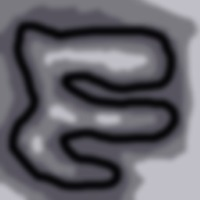
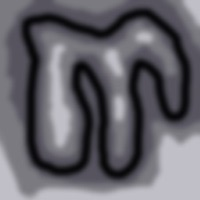
Nodes

diff --git a/CS_Application_Mermans_Stefan/RemoteHealthCareCS/VRConnectorForm/Forms/TunnelCommandForm.cs b/CS_Application_Mermans_Stefan/RemoteHealthCareCS/VRConnectorForm/Forms/TunnelCommandForm.cs
@@ -116,40 +116,46 @@ namespace VRConnectorForm.Forms
                     nodes = new[]
                     {
                         //grid is 200x200
-                        new {pos = new[] {-77,0, -74} , dir = new[] {5, 0, -5 }},
-                        new {pos = new[] {-66,0,-74} , dir = new[] {5,0,5}},
-                        new {pos = new[] {-41,0,-65}, dir = new[] {-5,0,5}},
-                        new {pos = new[] {-9,0,-69}, dir = new[] {-5,0,-5}},
-                        new {pos = new[] {44,0,-69}, dir = new[] {-5,0,-5}},
-                        new {pos = new[] {64,0,-59}, dir = new[] {-5,0,-5}},
-                        new {pos = new[] {67,0,-50}, dir = new[] {-5,0,-5}},
-                        new {pos = new[] {69,0,-26}, dir = new[] {-5,0,-5}},
-                        new {pos = new[] {59,0,-13}, dir = new[] {-5,0,-5}},
-                        new {pos = new[] {34,0,-13}, dir = new[] {-5,0,-5}},
-                        new {pos = new[] {14,0,-13}, dir = new[] {-5,0,-5}},
-                        new {pos = new[] {-13,0,-21}, dir = new[] {-5,0,-5}},
-                        new {pos = new[] {-35,0,-19}, dir = new[] {-5,0,-5}},
-                        new {pos = new[] {-7,0,0}, dir = new[] {-5,0,-5}},
-                        new {pos = new[] {28,0,2}, dir = new[] {-5,0,-5}},
-                        new {pos = new[] {51,0,2}, dir = new[] {-5,0,-5}},
-                        new {pos = new[] {65,0,4}, dir = new[] {-5,0,-5}},
-                        new {pos = new[] {73,0,11}, dir = new[] {-5,0,-5}},
-                        new {pos = new[] {71,0,21}, dir = new[] {-5,0,-5}},
-                        new {pos = new[] {62,0,35}, dir = new[] {-5,0,-5}},
-                        new {pos = new[] {9,0,38}, dir = new[] {-5,0,-5}},
-                        new {pos = new[] {-14,0,32}, dir = new[] {-5,0,-5}},
-                        new {pos = new[] {-36,0,38}, dir = new[] {-5,0,-5}},
-                        new {pos = new[] {-23,0,58}, dir = new[] {-5,0,-5}},
-                        new {pos = new[] {0,0,65}, dir = new[] {-5,0,-5}},
-                        new {pos = new[] {16,0,74}, dir = new[] {-5,0,-5}},
-                        new {pos = new[] {6,0,84}, dir = new[] {-5,0,-5}},
-                        new {pos = new[] {-40,0,84}, dir = new[] {-5,0,-5}},
-                        new {pos = new[] {-59,0,76}, dir = new[] {-5,0,-5}},
-                        new {pos = new[] {-87,0,47}, dir = new[] {-5,0,-5}},
-                        new {pos = new[] {-87,0,35}, dir = new[] {-5,0,-5}},
-                        new {pos = new[] {-68,0,6}, dir = new[] {-5,0,-5}},
-                        new {pos = new[] {-69,0,-7}, dir = new[] {-5,0,-5}},
-                        new {pos = new[] {-83,0,-48}, dir = new[] {-5,0,-5}}
+
+                        new {pos = new[] {-14,10,-35} , dir = new[] {5, 0, -5 }},
+                        new {pos = new[] {35,10,-35} , dir = new[] {5,0,5}},
+                        new {pos = new[] {35,10,31}, dir = new[] {-5,0,5}},
+                        new {pos = new[] {-14,10,31}, dir = new[] {-5,0,5}}
+
+                        //new {pos = new[] {-77,0, -74} , dir = new[] {5, 0, -5 }},
+                        //new {pos = new[] {-66,0,-74} , dir = new[] {5,0,5}},
+                        //new {pos = new[] {-41,0,-65}, dir = new[] {-5,0,5}},
+                        //new {pos = new[] {-9,0,-69}, dir = new[] {-5,0,-5}},
+                        //new {pos = new[] {44,0,-69}, dir = new[] {-5,0,-5}},
+                        //new {pos = new[] {64,0,-59}, dir = new[] {-5,0,-5}},
+                        //new {pos = new[] {67,0,-50}, dir = new[] {-5,0,-5}},
+                        //new {pos = new[] {69,0,-26}, dir = new[] {-5,0,-5}},
+                        //new {pos = new[] {59,0,-13}, dir = new[] {-5,0,-5}},
+                        //new {pos = new[] {34,0,-13}, dir = new[] {-5,0,-5}},
+                        //new {pos = new[] {14,0,-13}, dir = new[] {-5,0,-5}},
+                        //new {pos = new[] {-13,0,-21}, dir = new[] {-5,0,-5}},
+                        //new {pos = new[] {-35,0,-19}, dir = new[] {-5,0,-5}},
+                        //new {pos = new[] {-7,0,0}, dir = new[] {-5,0,-5}},
+                        //new {pos = new[] {28,0,2}, dir = new[] {-5,0,-5}},
+                        //new {pos = new[] {51,0,2}, dir = new[] {-5,0,-5}},
+                        //new {pos = new[] {65,0,4}, dir = new[] {-5,0,-5}},
+                        //new {pos = new[] {73,0,11}, dir = new[] {-5,0,-5}},
+                        //new {pos = new[] {71,0,21}, dir = new[] {-5,0,-5}},
+                        //new {pos = new[] {62,0,35}, dir = new[] {-5,0,-5}},
+                        //new {pos = new[] {9,0,38}, dir = new[] {-5,0,-5}},
+                        //new {pos = new[] {-14,0,32}, dir = new[] {-5,0,-5}},
+                        //new {pos = new[] {-36,0,38}, dir = new[] {-5,0,-5}},
+                        //new {pos = new[] {-23,0,58}, dir = new[] {-5,0,-5}},
+                        //new {pos = new[] {0,0,65}, dir = new[] {-5,0,-5}},
+                        //new {pos = new[] {16,0,74}, dir = new[] {-5,0,-5}},
+                        //new {pos = new[] {6,0,84}, dir = new[] {-5,0,-5}},
+                        //new {pos = new[] {-40,0,84}, dir = new[] {-5,0,-5}},
+                        //new {pos = new[] {-59,0,76}, dir = new[] {-5,0,-5}},
+                        //new {pos = new[] {-87,0,47}, dir = new[] {-5,0,-5}},
+                        //new {pos = new[] {-87,0,35}, dir = new[] {-5,0,-5}},
+                        //new {pos = new[] {-68,0,6}, dir = new[] {-5,0,-5}},
+                        //new {pos = new[] {-69,0,-7}, dir = new[] {-5,0,-5}},
+                        //new {pos = new[] {-83,0,-48}, dir = new[] {-5,0,-5}}
                      }
                 }
             }, _connection.TunnelId));

diff --git a/CS_Application_Mermans_Stefan/RemoteHealthCareCS/VRConnectorForm/VRobjects/Terrain.cs b/CS_Application_Mermans_Stefan/RemoteHealthCareCS/VRConnectorForm/VRobjects/Terrain.cs
@@ -76,7 +76,7 @@ namespace VRConnectorForm.VRobjects
     {
         public static double[] GenerateHeightmap()
         {
-            var heightMap = Image.FromFile(@"..\..\res/map2.jpg");
+            var heightMap = Image.FromFile(@"..\..\res/map3.jpg");
             var bitHeigthMap = new Bitmap(heightMap, 256, 256);
             var pixels = new double[256 * 256];
             for (int countRow = 0; countRow < 256; countRow++)
